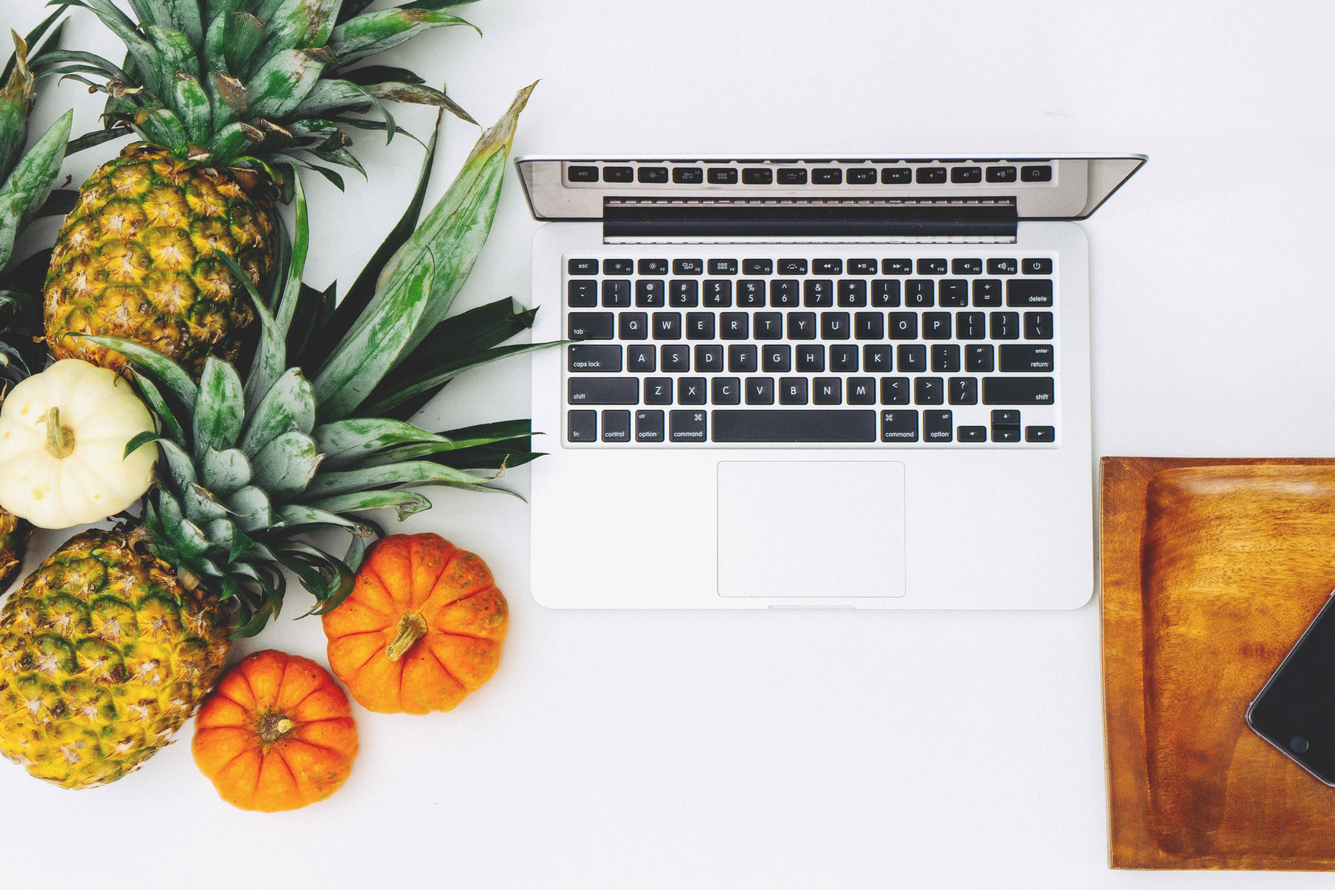
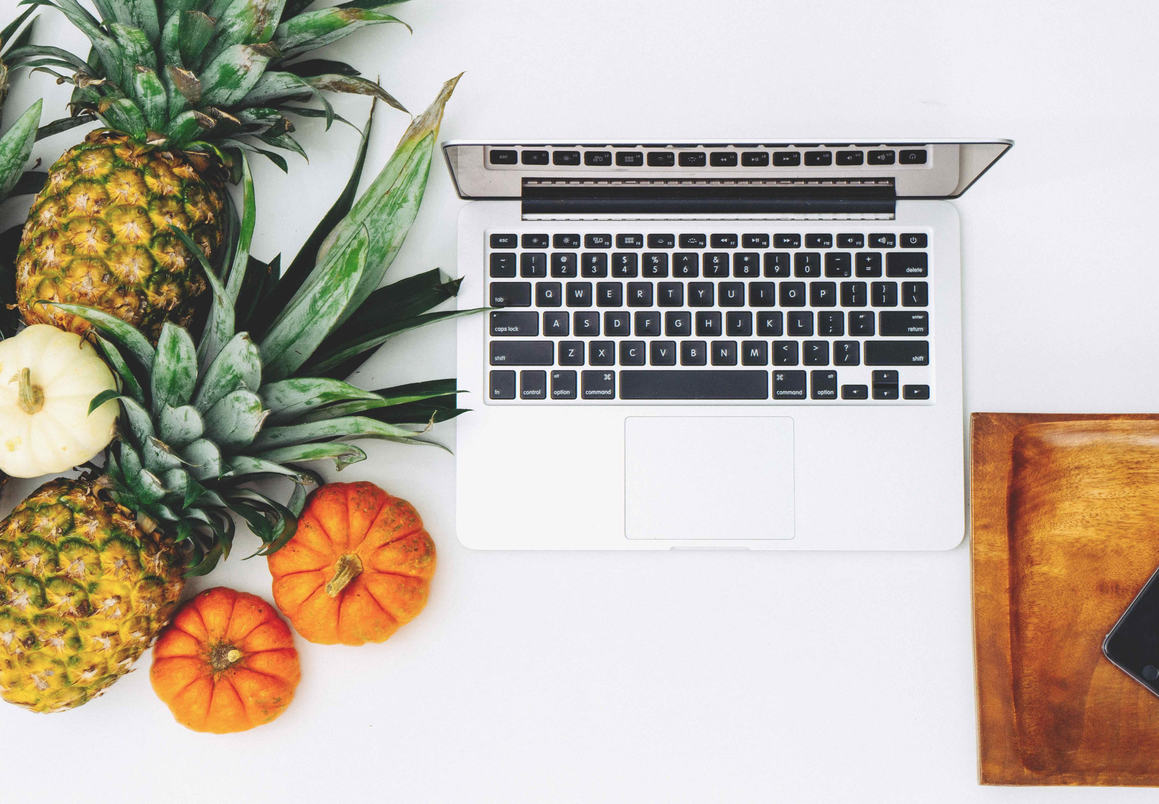
added name color change js and edited about me, adjusted hero images sizes

diff --git a/index.html b/index.html
@@ -31,7 +31,7 @@
 	   </div>
 		<div class="about-me">
 			<h3>about me</h3>
-			<p>Hello! My name is Vienne and I am a front-end developer living in New York City. I have been a Javascript Engineer at Oracle Maxymsier since 2015, working with many enterprise clients to create optimization/testing content.</p>
+			<p>Hello! My name is Vienne and I am a front-end developer living in New York City. I have been a Javascript Engineer at Oracle Maxymsier since 2015, where I work with many enterprise clients to create optimization/testing content for their websites.</p>
 			<p>In my spare time, I like to ride rental bikes around Central Park, take photos of food and go grocery shopping. I am proud to say that I've finally gotten over a very bad case of FOMO after 8 years in the city.</p>
 		</div>
 	</div>

diff --git a/app.js b/app.js
@@ -1,1 +1,7 @@
-	
+var colors = ['#6CAEB0', '#CF9973', '#FA834F', '#e38e85', '#285687', '#812847', '#B82F2A'];
+var random_color = colors[Math.floor(Math.random() * colors.length)];
+var firstNameLetter = document.querySelectorAll('.letter');
+
+for (var i= 0; i < firstNameLetter.length; i++) {
+	firstNameLetter[i].style.color = random_color;
+}

diff --git a/style.css b/style.css
@@ -167,7 +167,7 @@ ol {
   transition: opacity 1.2s ease-in-out;
 }
 .hero .top {
-  height: 333px;
+
 }
 .hero img:hover {
   opacity: 0;
